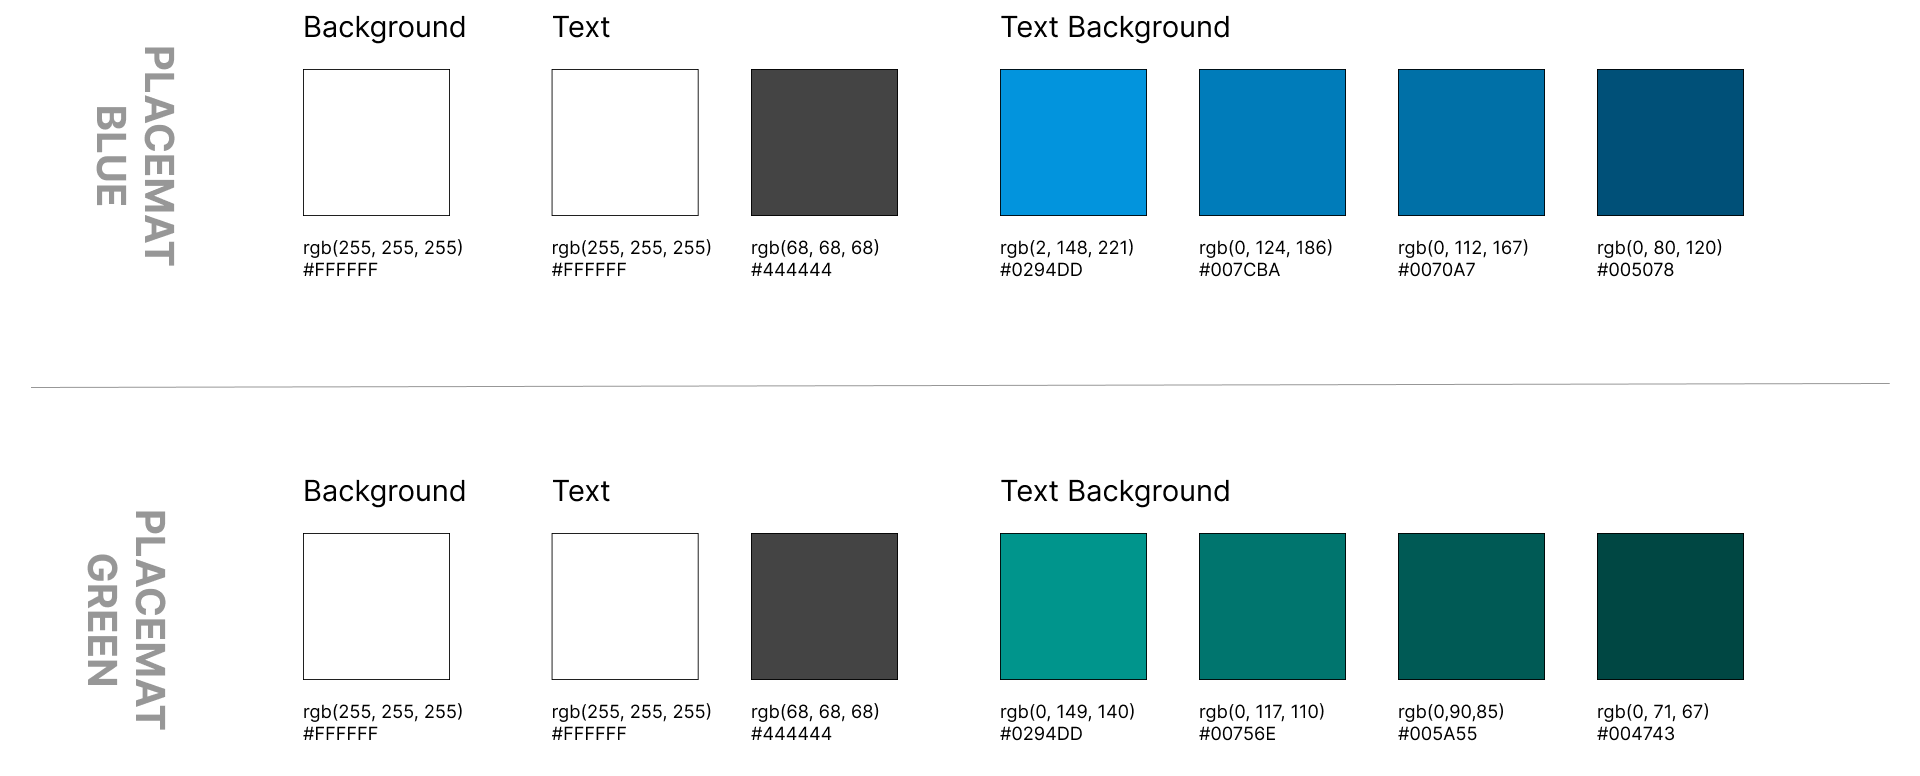
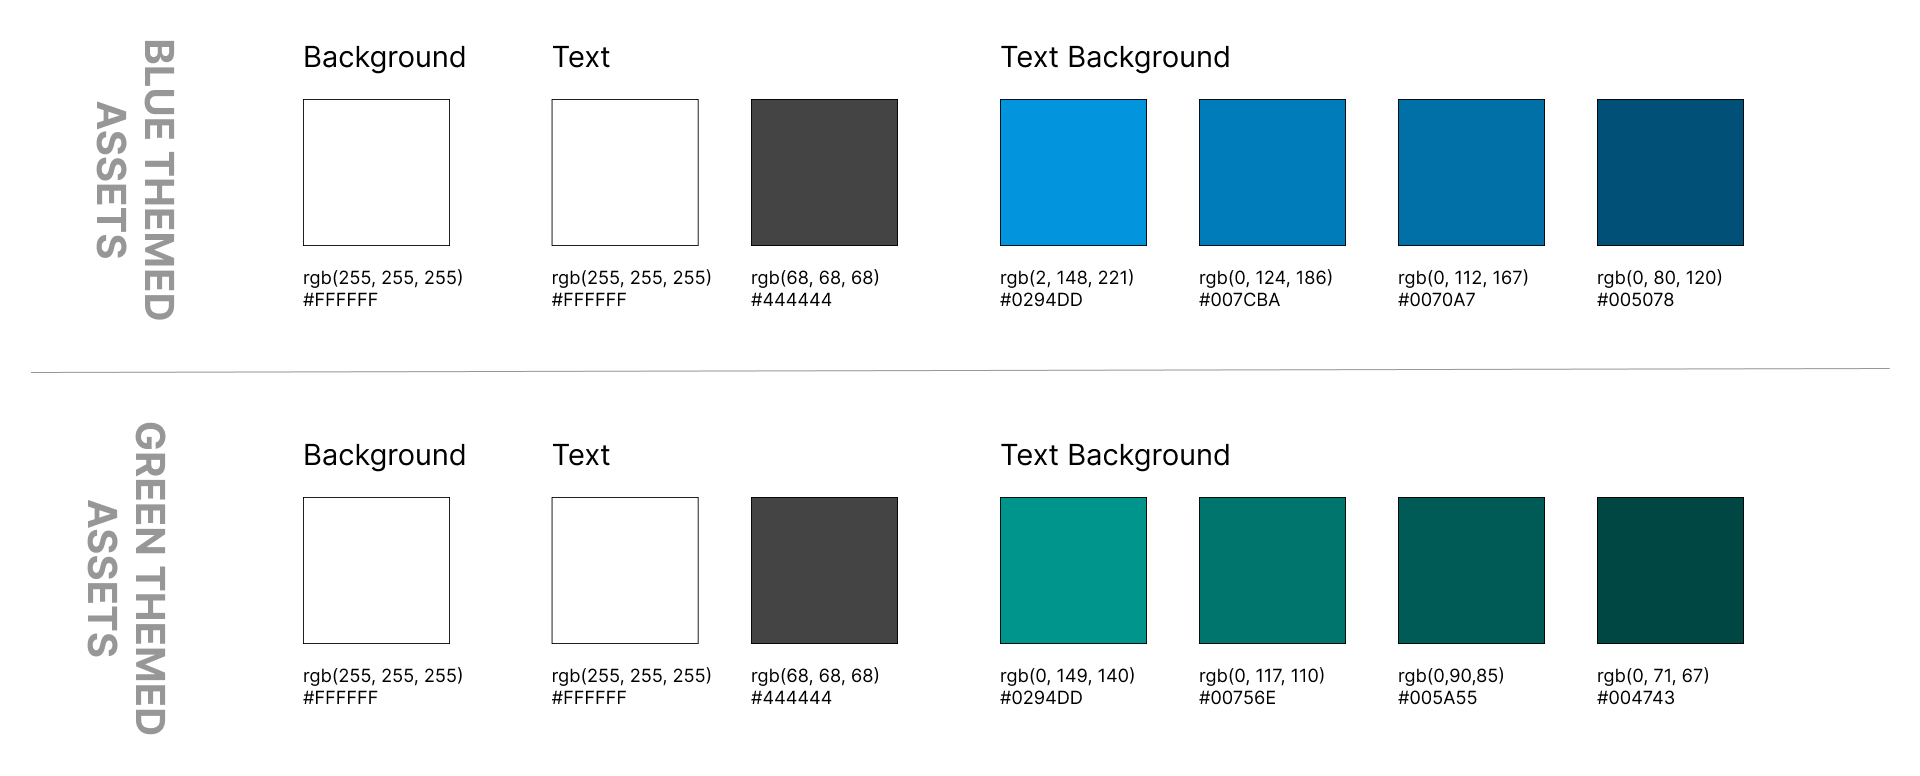
added more content for graphic design.

diff --git a/main/graphic_designer.html b/main/graphic_designer.html
@@ -45,7 +45,8 @@
 
     <div class="container-title">
         <h1>HAO Electric</h1>
-        <h3>Graphic Designer</h3>
+        <h3>Graphic Designer<span style="color: #717171; padding: 0px 15px;">|</span> <span
+                style="color: #717171; ">Final Project</span></h3>
     </div>
 
     <div class="image-heading">
@@ -78,6 +79,14 @@
         </div>
 
         <h2>Introduction</h2>
+        <p> This is a final project done in teams of 4, however my role and contribution was
+            standalone to the rest of the project deliverables as I primarily worked on design mockups and a majority of
+            slide deck
+            design. Other roles for this project
+            included copywriters and another graphic designer who mainly drew vector images. Since placeholder text was
+            mostly used to display paragraphs, the copywriter's contributions are also not present in this work.</p>
+        <br>
+
         <p>HAO Electric LTD. is an electrical company based in Metro Vancouver, founded and led by Jimmy Zhen. Some of
             their services include LED lighting upgrades, electrical renovations, and EV charging stations installations
             for commercial, industrial, and residential. <br><br>
@@ -103,7 +112,8 @@
                 <!-- <div class="numbertext">1 / 3</div> -->
                 <img src="https://ariellebeltran.github.io/portfolio/main/images/haoelectric_assets.png"
                     style="width:100%">
-                <!-- <div class="text">Caption Text</div> -->
+                <figcaption>HAO Electric assets</figcaption>
+
             </div>
 
             <div class="mySlides1">
@@ -117,7 +127,7 @@
                 <!-- <div class="numbertext">3 / 3</div> -->
                 <img src="https://ariellebeltran.github.io/portfolio/main/images/HAOElectric_colours.png"
                     style="width:100%">
-                <!-- <div class="text">Caption Three</div> -->
+                <figcaption>Colour palette found from browser inspect tool</figcaption>
             </div>
 
             <!-- Next and previous buttons -->
@@ -140,12 +150,6 @@
         <h3>Business Placemat </h3>
         <p>A physical guide to help aide prospective clients of HAO Electric's goals and services.</p>
 
-        <div class="image-heading-smaller">
-            <img src="https://ariellebeltran.github.io/portfolio/main/images/inside-HAO-electric-package1.png"
-                alt="An image of one of the HAO Electric mockup deliverables." width="800px" height="auto">
-            <figcaption>Final Iteration: Highlighted company ethos, services and process.</figcaption>
-        </div>
-
         <br>
 
         <p>In previous iterations, I struggled with creating a layout that effectively displayed all of the essential
@@ -158,22 +162,19 @@
             <!-- Full-width images with number and caption text -->
             <div class="mySlides2">
                 <!-- <div class="numbertext">1 / 3</div> -->
-                <img src="https://ariellebeltran.github.io/portfolio/main/images/rough-placemat2.png"
-                    style="width:100%">
+                <img src="https://ariellebeltran.github.io/portfolio/main/images/rough-placemat2.png" style="width:85%">
                 <!-- <div class="text">Caption Text</div> -->
             </div>
 
             <div class="mySlides2">
                 <!-- <div class="numbertext">2 / 3</div> -->
-                <img src="https://ariellebeltran.github.io/portfolio/main/images/rough-placemat3.png"
-                    style="width:100%">
+                <img src="https://ariellebeltran.github.io/portfolio/main/images/rough-placemat3.png" style="width:85%">
                 <!-- <div class="text">Caption Two</div> -->
             </div>
 
             <div class="mySlides2">
                 <!-- <div class="numbertext">3 / 3</div> -->
-                <img src="https://ariellebeltran.github.io/portfolio/main/images/rough-placemat4.png"
-                    style="width:100%">
+                <img src="https://ariellebeltran.github.io/portfolio/main/images/rough-placemat4.png" style="width:85%">
                 <!-- <div class="text">Caption Three</div> -->
             </div>
 
@@ -184,11 +185,19 @@
             <figcaption>Medium to high fidelity of rough concepts.</figcaption>
         </div>
 
+        <div class="image-heading-smaller">
+            <img src="https://ariellebeltran.github.io/portfolio/main/images/inside-HAO-electric-package1.png"
+                alt="An image of one of the HAO Electric mockup deliverables." width="800px" height="auto">
+            <figcaption>Final Iteration: Highlighted company ethos, services and process.</figcaption>
+        </div>
+
         <br><br>
 
         <h3>Project Booklet</h3>
         <p>An extensive report of previous projects to help demonstrate HAO Electric's previous achievements and work
-            ethic.</p>
+            ethic. In this case, the booklet is coloured green to showcase EV projects that HAO Electric has done in the
+            past. The client has specified that they wanted a different colour theme such as green theme to
+            differentiate between lighting projects and EV projects.</p>
 
         <div class="image-heading-smaller">
             <img src="https://ariellebeltran.github.io/portfolio/main/images/inside-HAO-electric-package2.png"
@@ -198,13 +207,14 @@
         </div>
 
         <br><br>
-        <h3>Colour Palette</h3>
+        <h3>New Colour Palette</h3>
         <div class="image-heading-smaller">
             <img src="https://ariellebeltran.github.io/portfolio/main/images/HAOElectric_colours-remade.png"
                 alt="An image of one of the HAO Electric mockup deliverables." width="800px" height="auto">
             <figcaption>Redesigned to match the project deliverables.</figcaption>
         </div>
         <br>
+
 
         <h2>Result</h2>
         <h3>Presentation and Booklet Template Package</h3>
@@ -259,17 +269,17 @@
         <div class="slideshow-container-w3schools">
             <div class="mySlides3">
                 <img src="https://ariellebeltran.github.io/portfolio/main/images/HAO_mockup1.png"
-                    alt="An image of one of the HAO Electric mockup deliverables." width="100%" height="auto">
+                    alt="An image of one of the HAO Electric mockup deliverables." width="95%" height="auto">
             </div>
 
             <div class="mySlides3">
                 <img src="https://ariellebeltran.github.io/portfolio/main/images/HAO_mockup2.png"
-                    alt="An image of one of the HAO Electric mockup deliverables." width="100%" height="auto">
+                    alt="An image of one of the HAO Electric mockup deliverables." width="95%" height="auto">
             </div>
 
             <div class="mySlides3">
                 <img src="https://ariellebeltran.github.io/portfolio/main/images/HAO_mockup3.png"
-                    alt="An image of one of the HAO Electric mockup deliverables." width="100%" height="auto">
+                    alt="An image of one of the HAO Electric mockup deliverables." width="95%" height="auto">
             </div>
 
 

diff --git a/main/style.css b/main/style.css
@@ -777,9 +777,10 @@ li {
 
 /* Slideshow container */
 .slideshow-container-w3schools {
-    max-width: 800px;
+    max-width: 700px;
     position: relative;
     margin: auto;
+    text-align: center;
 }
 
 /* Hide the images by default */
@@ -794,6 +795,7 @@ li {
     cursor: pointer;
     position: absolute;
     top: 50%;
+    right: 100%;
     width: auto;
     margin-top: -22px;
     padding: 16px 5px;
@@ -804,6 +806,7 @@ li {
     border-radius: 0 3px 3px 0;
     user-select: none;
     border-radius: 5px;
+    text-align: center;
 }
 
 /* Position the "next button" to the right */
